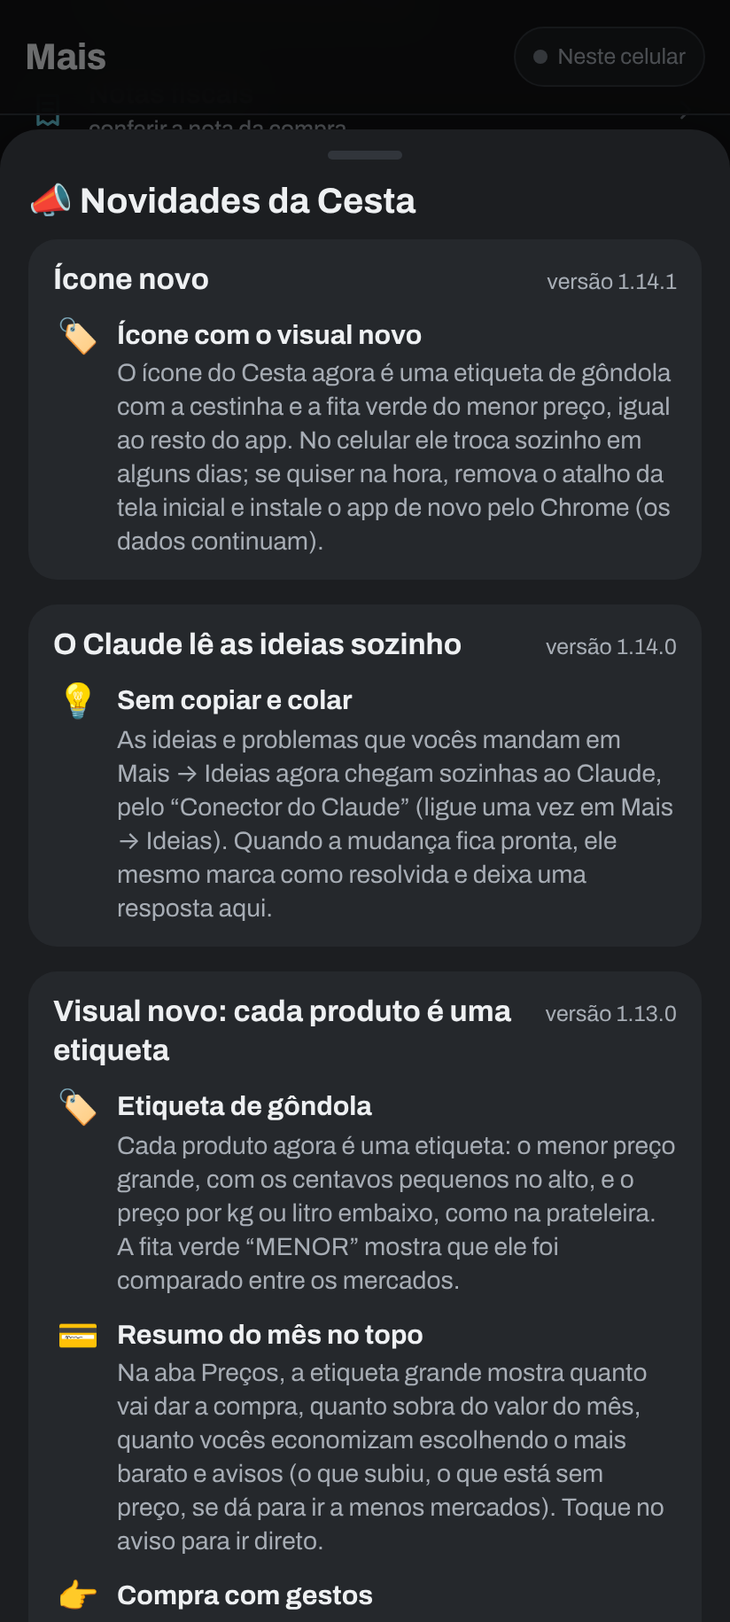
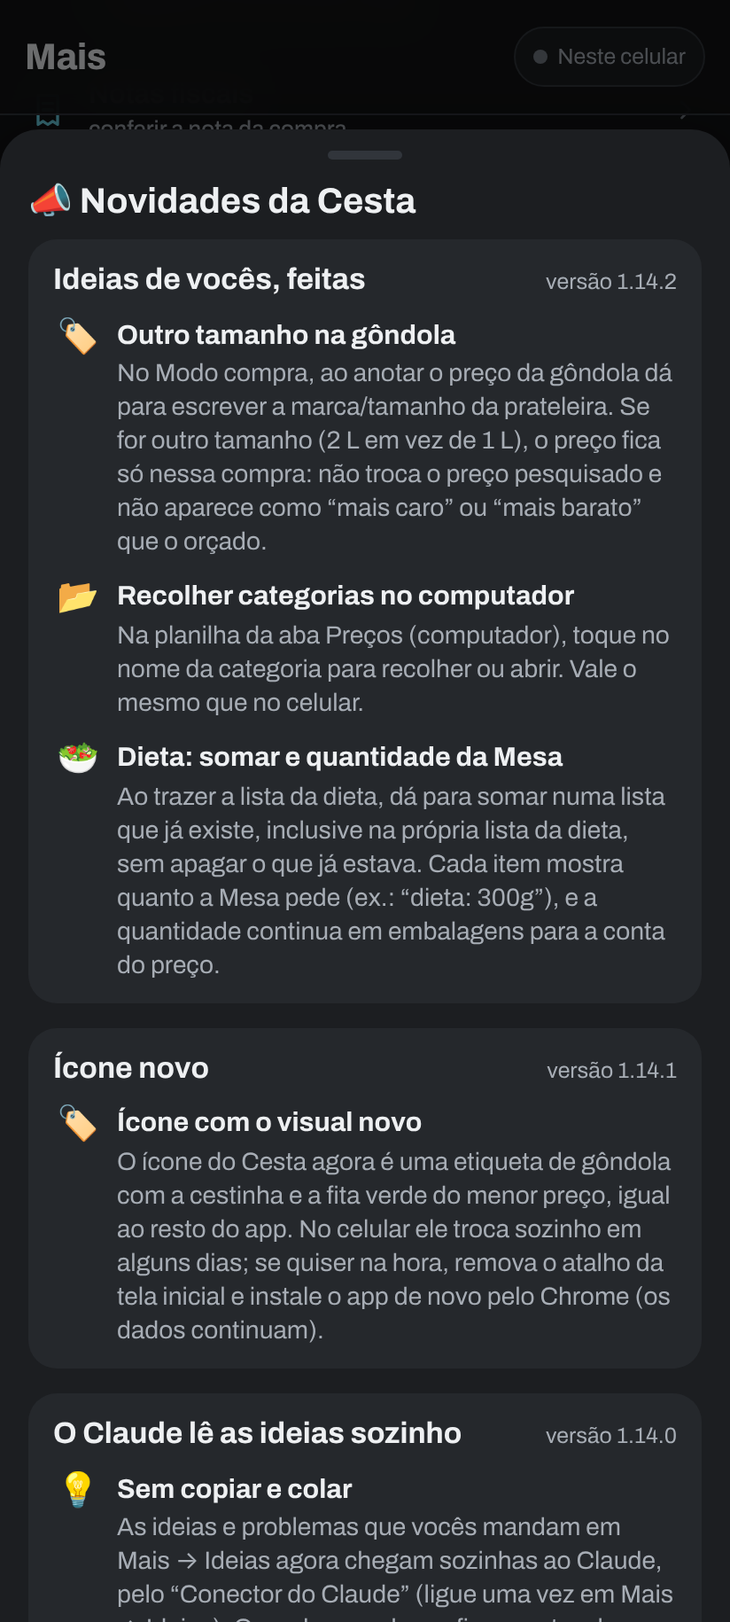
Vitrine na 1.14.2: feedbacks da família
Claude-Session: https://claude.ai/code/session_01LXQ9tCHVjJvAX95Gk39t66

Changed region(s): [[0.0607, 0.1557, 0.9405, 1.0], [0.7585, 0.1557, 0.8192, 0.1869], [0.091, 0.9656, 0.1214, 0.9967]]

diff --git a/app/js/modelo.js b/app/js/modelo.js
@@ -11,9 +11,11 @@
 //   p:<mes>:<pid>           produto      { nome, cat, qtd, obs }      (pid é o mesmo em todos os meses)
 //   r:<mes>:<pid>:<mid>     preço        { preco, marca, auto, obs }  (auto = marca copiada de outro mercado)
 //   k:<lista>:<pid>         modo compra  { ok, merc, faltou, pagoPreco, pagoQtd, estPreco, atualizou }
-//                           (ok = no carrinho, merc = mercado escolhido, pagoPreco/pagoQtd = preço e qtd vistos na gôndola)
+//                           (ok = no carrinho, merc = mercado escolhido, pagoPreco/pagoQtd = preço e qtd vistos na gôndola,
+//                            pagoMarca = marca/tamanho da gôndola, outroTam = tamanho diferente do pesquisado: preço não comparável)
 //   cm:<mes>                modo compra  { fora: [mid…] }             (mercados que não vou visitar)
-//   l:<lista>               lista        { nome, criado, orcamento, dieta }  (listas extras do mês e nome/limite da nº 1; dieta = { de, ate, quando })
+//   l:<lista>               lista        { nome, criado, orcamento, dieta, dietaQtd }  (listas extras do mês e nome/limite da nº 1; dieta = { de, ate, quando };
+//                                         dietaQtd = { pid: { qtd, unid } }: quanto a dieta pede, como na Mesa — a quantidade da lista é em embalagens)
 //   q:<lista>:<pid>         quantidade   { qtd }                      (só nas listas extras; a nº 1 usa p.qtd)
 //   oc:<lista>              orçado       { quando, total, itens: { pid: [preço, mid] } } (foto da lista na 1ª ação do Modo compra)
 //   mc:<pid>                marcas       { aceitas: [texto…] }        (vale para todos os meses; sem registro = qualquer marca)
@@ -500,7 +502,7 @@ export class Loja {
         faltou: todos.filter((m) => faltou.has(m.id)).map((m) => m.nome) };
       if (!mid) { semPreco.push(item); continue; }
       const l = c.linhas.find((x) => x.mid === mid);
-      item.mid = mid; item.marca = l.marca || c.marcaMenor;
+      item.mid = mid; item.marca = (temPago && k.pagoMarca) || l.marca || c.marcaMenor;
       item.preco = l.preco ?? k.pagoPreco ?? k.notaPreco;
       item.totalEst = item.preco * p.qtd;
       item.total = item.totalEst;
@@ -511,6 +513,8 @@ export class Loja {
       if (temPago) {
         item.pago = { preco: k.pagoPreco ?? item.preco, qtd: k.pagoQtd ?? p.qtd };
         item.total = item.pago.preco * item.pago.qtd;
+        // outro tamanho na gôndola: não dá para comparar com o orçado (o preço é de outra embalagem)
+        if (k.outroTam) { item.outroTam = true; item.totalEst = item.total; }
       }
       if (temNota) {
         item.nota = { preco: k.notaPreco, qtd: k.notaQtd ?? p.qtd };
@@ -1010,15 +1014,27 @@ export class Loja {
 
   // Preço e quantidade vistos na gôndola (pegar = já põe no carrinho). atualizarPesquisa grava o preço também na
   // pesquisa daquele mercado; o item fica preso nesse mercado para não "pular" de grupo.
-  pagarNoCaixa(mes, pid, { mid, preco = null, qtd = null, atualizarPesquisa = true, pegar = true }) {
+  // marca = marca/tamanho vista na gôndola (opcional). Com outro tamanho, o preço fica só na compra, a não ser que
+  // a pessoa peça para atualizar a pesquisa: aí vão o preço e a marca nova juntos.
+  pagarNoCaixa(mes, pid, { mid, preco = null, qtd = null, marca = null, atualizarPesquisa = true, pegar = true }) {
     return this.lote(() => {
       this.congelarOrcado(mes); // antes de mexer na pesquisa
       const k = this.get(`k:${mes}:${pid}`) || {};
       // guarda o preço pesquisado de antes, para mostrar a diferença mesmo depois de atualizar a pesquisa
       const antes = typeof k.estPreco === 'number' && k.merc === mid ? k.estPreco : this.preco(mes, pid, mid)?.preco ?? null;
-      this.set(`k:${mes}:${pid}`, { ...k, ok: pegar || !!k.ok, merc: mid, pagoPreco: preco, pagoQtd: qtd, estPreco: antes, atualizou: !!atualizarPesquisa });
+      const outroTam = this.outroTamanho(mes, pid, mid, marca);
+      this.set(`k:${mes}:${pid}`, { ...k, ok: pegar || !!k.ok, merc: mid, pagoPreco: preco, pagoQtd: qtd, pagoMarca: marca?.trim() || null, outroTam,
+        estPreco: antes, estMarca: k.atualizou && k.merc === mid && 'estMarca' in k ? k.estMarca : this.preco(mes, pid, mid)?.marca ?? '', atualizou: !!atualizarPesquisa });
       if (atualizarPesquisa && typeof preco === 'number') this.setPreco(mes, pid, mid, preco);
+      if (atualizarPesquisa && marca?.trim() && marca.trim() !== this.preco(mes, pid, mid)?.marca) this.setMarca(mes, pid, mid, marca.trim());
     });
+  }
+
+  // A marca/tamanho da gôndola tem outro tamanho que o pesquisado nesse mercado (ex.: 2 L em vez de 1 L)?
+  outroTamanho(mes, pid, mid, marca) {
+    const t = lerTamanho(marca || '');
+    const r = t && lerTamanho(this.preco(mes, pid, mid)?.marca || this.calcProduto(mes, pid).marcaMenor || '');
+    return !!r && (r.base !== t.base || r.qtd !== t.qtd);
   }
 
   // Não vou comprar este mês: zera a quantidade (o produto continua na lista de preços)
@@ -1033,7 +1049,8 @@ export class Loja {
     return this.lote(() => {
       const k = this.get(`k:${mes}:${pid}`) || {};
       if (k.atualizou && k.merc) this.setPreco(mes, pid, k.merc, typeof k.estPreco === 'number' ? k.estPreco : null);
-      this.set(`k:${mes}:${pid}`, { ...k, pagoPreco: null, pagoQtd: null, estPreco: null, atualizou: false });
+      if (k.atualizou && k.merc && k.pagoMarca && typeof k.estMarca === 'string' && k.estMarca !== k.pagoMarca) this._setR(mes, pid, k.merc, { marca: k.estMarca });
+      this.set(`k:${mes}:${pid}`, { ...k, pagoPreco: null, pagoQtd: null, pagoMarca: null, outroTam: false, estPreco: null, atualizou: false });
     });
   }
   setForaCompra(mes, mid, foraDaRota) {
@@ -1042,7 +1059,7 @@ export class Loja {
     this.set(`cm:${mes}`, { fora: [...fora] });
   }
   limparCompra(mes) {
-    return this.lote(() => { this.del(`oc:${mes}`); for (const [pid, k] of [...(this.ix.k.get(mes) || [])]) if (k.ok || k.faltou?.length || k.pagoPreco != null || k.pagoQtd != null) this.set(`k:${mes}:${pid}`, { ...k, ok: false, faltou: [], pagoPreco: null, pagoQtd: null, estPreco: null, atualizou: false }); });
+    return this.lote(() => { this.del(`oc:${mes}`); for (const [pid, k] of [...(this.ix.k.get(mes) || [])]) if (k.ok || k.faltou?.length || k.pagoPreco != null || k.pagoQtd != null) this.set(`k:${mes}:${pid}`, { ...k, ok: false, faltou: [], pagoPreco: null, pagoQtd: null, pagoMarca: null, outroTam: false, estPreco: null, atualizou: false }); });
   }
 
   // Gôndola cara: anota o preço visto (se quiser) e leva o item para outro mercado da rota
@@ -1051,7 +1068,7 @@ export class Loja {
       this.congelarOrcado(mes);
       if (atualizarPesquisa && typeof preco === 'number') this.setPreco(mes, pid, mid, preco);
       const k = this.get(`k:${mes}:${pid}`) || {};
-      this.set(`k:${mes}:${pid}`, { ...k, ok: false, merc: para, pagoPreco: null, pagoQtd: null, estPreco: null, atualizou: false });
+      this.set(`k:${mes}:${pid}`, { ...k, ok: false, merc: para, pagoPreco: null, pagoQtd: null, pagoMarca: null, outroTam: false, estPreco: null, atualizou: false });
     });
   }
 
@@ -1117,7 +1134,9 @@ export class Loja {
     return !t && base === 'un' ? c.menor : null;
   }
 
-  // Põe a dieta numa lista: itens = [{ pid, qtd, desc }]. Sem "para", cria (ou substitui) a lista "Dieta · Mês";
+  dietaQtd(lista, pid) { return this.ix.l.get(lista)?.dietaQtd?.[pid] || null; }
+
+  // Põe a dieta numa lista: itens = [{ pid, qtd, desc, dieta: { qtd, unid } }]. Sem "para", cria (ou substitui) a lista "Dieta · Mês";
   // com "para", soma as quantidades numa lista que já existe. Aprende os nomes ligados (como na nota fiscal).
   aplicarDieta(mes, itens, { de, ate, para = null } = {}) {
     mes = mesDe(mes);
@@ -1129,12 +1148,20 @@ export class Loja {
         for (const p of this.produtos(id)) if (p.qtd) this.setQtd(id, p.id, null);
       }
       const soma = new Map();
+      // quanto a dieta pede (g, ml, un), somado com o que já havia quando "para" soma numa lista
+      const dq = para ? { ...(this.ix.l.get(id)?.dietaQtd || {}) } : {};
       for (const i of itens) {
         if (!i.pid || !this.produto(id, i.pid)) continue;
         soma.set(i.pid, (soma.get(i.pid) || 0) + i.qtd);
+        if (i.dieta?.qtd != null) {
+          const a = dq[i.pid];
+          // shortcut: unidade diferente da que já estava substitui em vez de somar, raro (a Mesa usa uma unidade por alimento)
+          dq[i.pid] = { qtd: Math.round(((a?.unid === i.dieta.unid ? a.qtd : 0) + i.dieta.qtd) * 1000) / 1000, unid: i.dieta.unid };
+        }
         const kd = chaveDesc(i.desc || '');
         if (kd && this.ix.vd.get(kd)?.pid !== i.pid) this.set(`vd:${kd}`, { pid: i.pid, desc: i.desc });
       }
+      this.mesclar(`l:${id}`, { dietaQtd: dq });
       for (const [pid, q] of soma) this.setQtd(id, pid, Math.round(((para ? this.produto(id, pid).qtd || 0 : 0) + q) * 1000) / 1000);
     });
     return { id, desfazer };

diff --git a/app/js/compra.js b/app/js/compra.js
@@ -208,7 +208,7 @@ function itemCompra(it) {
   const detalhe = [h('span', { class: 'q' }, `${fmtQ(real?.qtd ?? it.p.qtd)}×`), it.marca ? ` · ${it.marca}` : '', it.preco != null ? ` · ${fmtRS(real?.preco ?? it.preco)} un.` : ''];
   const dif = real && !it.semEst ? Math.round((it.total - it.totalEst) * 100) / 100 : 0;
   const refUnit = real && !it.semEst ? it.totalEst / it.p.qtd : null;
-  const txtOrcado = refUnit === null ? '' : ` · orçado ${fmtRS(refUnit)}${dif ? ` (${dif > 0 ? '+' : '−'}${fmtRS(Math.abs(dif))})` : ' (igual)'}`;
+  const txtOrcado = it.outroTam ? ' · outro tamanho' : refUnit === null ? '' : ` · orçado ${fmtRS(refUnit)}${dif ? ` (${dif > 0 ? '+' : '−'}${fmtRS(Math.abs(dif))})` : ' (igual)'}`;
   const frente = h('div', { class: `ic-compra${it.ok ? ' ok' : ''}` },
     h('button', { class: 'marca-cx', role: 'checkbox', 'aria-checked': String(it.ok), 'aria-label': it.p.nome, onclick: alternar }, icone('check')),
     h('button', { class: 'tx', onclick: alternar },
@@ -285,7 +285,10 @@ function gondola(it) {
   const inpPreco = h('input', { class: 'entrada num', inputmode: 'decimal', value: fmtN(it.pago?.preco ?? it.preco), placeholder: 'R$ por unidade', autofocus: true, enterkeyhint: 'done',
     style: { fontSize: '1.25rem', fontWeight: 700 } });
   campoMoeda(inpPreco, () => app.prefs.moeda !== false);
-  const chk = h('input', { type: 'checkbox', checked: true });
+  // outro tamanho na prateleira (ex.: 2 L em vez de 1 L): o preço não é comparável e não vai para a pesquisa sozinho
+  const inpMarca = h('input', { class: 'entrada', value: it.marca || '', placeholder: 'Ex.: Italac 1L', autocapitalize: 'sentences' });
+  let eraOutro = it.outroTam || false;
+  const chk = h('input', { type: 'checkbox', checked: !eraOutro });
   const nomeMerc = () => (it.mid ? rota.find((m) => m.id === it.mid)?.nome : rota.find((m) => m.id === selMerc.value)?.nome) || '';
   const rotChk = h('span');
   const conta = h('div', { class: 'aviso', style: { background: 'var(--card2)', borderColor: 'var(--linha)', color: 'var(--texto)' } });
@@ -294,13 +297,19 @@ function gondola(it) {
     const q = lerNumero(inpQtd.value), p = lerExpr(inpPreco.value);
     rotChk.textContent = `Atualizar também o preço do ${nomeMerc()} na pesquisa`;
     alerta.hidden = true;
+    const mid = it.mid || selMerc?.value;
+    const outro = !!mid && loja.outroTamanho(mes, it.p.id, mid, inpMarca.value);
+    if (outro !== eraOutro) { chk.checked = !outro; eraOutro = outro; }
     if (!q || typeof p !== 'number') { conta.textContent = 'Digite a quantidade e o preço por unidade.'; return; }
     const total = q * p;
+    if (outro) {
+      conta.replaceChildren(h('b', { class: 'num' }, `Total: ${fmtRS(total)}`), h('span', { style: { color: 'var(--suave)' } }, ' · outro tamanho: não entra na comparação com o orçado nem na pesquisa (a não ser que você marque abaixo).'));
+      return;
+    }
     const est = it.pago?.qtd !== undefined && it.semEst ? null : it.totalEst ?? null;
     conta.replaceChildren(h('b', { class: 'num' }, `Total: ${fmtRS(total)}`),
       est != null ? h('span', { class: 'num', style: { color: 'var(--suave)' } }, ` · orçado ${fmtRS(est)}${Math.abs(total - est) > 0.004 ? ` (${total > est ? '+' : '−'}${fmtRS(Math.abs(total - est))})` : ''}`) : null);
     // subiu 10% ou mais e outro mercado da rota tem mais barato: avisa ali mesmo
-    const mid = it.mid || selMerc?.value;
     const a = mid ? loja.alertaGondola(mes, it.p.id, mid, p) : null;
     if (a) {
       alerta.replaceChildren(h('span', null, `⚠ Subiu ${a.pct}% (orçado ${fmtRS(a.ref)}). No ${a.alt.nome} está ${fmtRS(a.alt.preco)}${a.alt.marca ? ` (${a.alt.marca})` : ''}.`),
@@ -316,13 +325,14 @@ function gondola(it) {
     toast(`${it.p.nome} vai ser comprado no ${alt.nome}.`, { acao: { rotulo: 'Desfazer', fn: () => { desfazer(); app.render(); } } });
   };
   [inpQtd, inpPreco].forEach((x) => { x.addEventListener('input', pintar); x.addEventListener('focus', () => x.select()); });
+  inpMarca.addEventListener('input', pintar);
   selMerc?.addEventListener('change', pintar);
   const salvar = (pegar = true) => {
     const q = lerNumero(inpQtd.value), p = lerExpr(inpPreco.value);
     if (!q || typeof p !== 'number') { erro.textContent = 'Confira a quantidade e o preço.'; erro.hidden = false; return; }
     const mid = it.mid || selMerc?.value;
     if (!mid) { erro.textContent = 'Nenhum mercado na rota.'; erro.hidden = false; return; }
-    const desfazer = loja.pagarNoCaixa(mes, it.p.id, { mid, preco: p, qtd: q, atualizarPesquisa: chk.checked, pegar });
+    const desfazer = loja.pagarNoCaixa(mes, it.p.id, { mid, preco: p, qtd: q, marca: inpMarca.value, atualizarPesquisa: chk.checked, pegar });
     f.fechar();
     app.render();
     toast(`🏷 ${it.p.nome}: ${fmtRS(q * p)}${pegar || it.ok ? ' no carrinho' : ' anotado'}.`, { acao: { rotulo: 'Desfazer', fn: () => { desfazer(); app.render(); } } });
@@ -334,6 +344,7 @@ function gondola(it) {
     h('div', { class: 'form' },
       selMerc ? h('label', null, 'Mercado', selMerc) : null,
       h('div', { class: 'grade2' }, h('label', null, 'Quantidade', inpQtd), h('label', null, 'Preço por unidade', inpPreco)),
+      h('label', null, 'Marca/tamanho na prateleira', inpMarca),
       conta,
       alerta,
       h('label', { class: 'check' }, chk, rotChk),

diff --git a/app/js/dieta.js b/app/js/dieta.js
@@ -9,7 +9,7 @@ import { norm, nomeMes, mesDe } from './modelo.js';
 
 const iso = (d) => `${d.getFullYear()}-${String(d.getMonth() + 1).padStart(2, '0')}-${String(d.getDate()).padStart(2, '0')}`;
 const ddmm = (s) => `${s.slice(8, 10)}/${s.slice(5, 7)}`;
-const fmtDieta = (q, u) => (q == null ? 'sem quantidade' : u === 'g' && q >= 1000 ? `${fmtQ(q / 1000)} kg` : u === 'ml' && q >= 1000 ? `${fmtQ(q / 1000)} L` : `${fmtQ(q)}${u === 'un' ? ' un' : u}`);
+export const fmtDieta = (q, u) => (q == null ? 'sem quantidade' : u === 'g' && q >= 1000 ? `${fmtQ(q / 1000)} kg` : u === 'ml' && q >= 1000 ? `${fmtQ(q / 1000)} L` : `${fmtQ(q)}${u === 'un' ? ' un' : u}`);
 
 // Seções da dieta → categorias do mercado (pelo nome; quem renomeou "Açougue" etc. também acerta)
 const SECOES = { 'Açougue': ['acougue', 'carne'], 'Peixaria': ['peix', 'carne'], 'Hortifruti': ['hortifruti', 'fruta', 'verdura'],
@@ -70,7 +70,7 @@ export function trazerDieta(mes = mesDe(app.mes)) {
   const existe = loja.listaDaDieta(mes);
   const f = folha([
     h('h2', null, '🥗 Trazer a lista da dieta'),
-    h('p', { class: 'sub' }, `Busca no app Plano da Família tudo o que a dieta usa no período, já somado. ${existe ? `Substitui as quantidades de “${loja.nomeLista(existe)}”.` : `Vira uma lista separada, “Dieta · ${nomeMes(mes).split(' ')[0]}”.`}`),
+    h('p', { class: 'sub' }, `Busca no app Plano da Família tudo o que a dieta usa no período, já somado. Depois você escolhe para onde vai: ${existe ? `substituir “${loja.nomeLista(existe)}”` : `uma lista separada, “Dieta · ${nomeMes(mes).split(' ')[0]}”`}, ou somar numa lista que já existe.`),
     chips, erro,
     h('div', { class: 'acoes lado' }, h('button', { class: 'btn fantasma', onclick: () => f.fechar() }, 'Cancelar'), btn),
   ]);
@@ -89,7 +89,7 @@ function revisar(mes, r) {
   const dieta = loja.listaDaDieta(mes);
   const selDestino = h('select', { class: 'entrada' },
     h('option', { value: '' }, dieta ? `${loja.nomeLista(dieta)} (substituir)` : `Lista separada: Dieta · ${nomeMes(mes).split(' ')[0]}`),
-    listas.filter((id) => id !== dieta).map((id) => h('option', { value: id }, `Somar em ${loja.nomeLista(id)}`)));
+    listas.map((id) => h('option', { value: id }, `Somar em ${loja.nomeLista(id)}${id === dieta ? ' (manter o que já tem)' : ''}`)));
   const corpo = h('div', { class: 'lista-ed' });
   const resumo = h('p', { class: 'sub' });
   const qtdDe = (i) => loja.embalagens(mes, i.pid, i.qtd, i.unid);
@@ -142,7 +142,7 @@ function revisar(mes, r) {
         i.pid = loja.duplicados(mes, nome)[0]?.id || loja.addProduto(mes, { nome, cat: categoriaPara(i.categoria, nome) });
         novos++;
       }
-      const usados = itens.filter((i) => i.como !== 'nao' && i.pid).map((i) => ({ pid: i.pid, qtd: qtdDe(i).qtd, desc: i.nome }));
+      const usados = itens.filter((i) => i.como !== 'nao' && i.pid).map((i) => ({ pid: i.pid, qtd: qtdDe(i).qtd, desc: i.nome, dieta: { qtd: i.qtd, unid: i.unid } }));
       destino = loja.aplicarDieta(mes, usados, { de: r.de, ate: r.ate, para }).id;
     });
     // preços para o app da dieta calcular quanto custa a semana (sem preço anotado, o item só fica de fora da conta)

diff --git a/app/js/grade.js b/app/js/grade.js
@@ -2,13 +2,15 @@
 // Enter desce para a mesma coluna do próximo produto; Tab anda para a direita.
 
 import { app } from './ctx.js';
-import { h, fmtRS, fmtN, fmtQ, lerExpr, campoMoeda, toast } from './ui.js';
+import { h, fmtRS, fmtN, fmtQ, lerExpr, campoMoeda, toast, icone } from './ui.js';
 import { lerNumero } from './modelo.js';
+import { fmtDieta } from './dieta.js';
 
 export const telaLarga = () => matchMedia('(min-width: 900px)').matches;
 
 // grupos: [{ c: categoria, lista: produtos }]
-export function montarGrade(grupos, { aoMudar, editar }) {
+// recolher uma categoria usa a mesma preferência da vista de cartões (prefs.recolhidas); buscando, abre tudo
+export function montarGrade(grupos, { aoMudar, editar, abrirTudo = false }) {
   const mercs = app.loja.mercados();
   const cab = h('thead', null,
     h('tr', null, h('th', { rowspan: 2, class: 'g-prod' }, 'Produto'), h('th', { rowspan: 2 }, 'Qtd.'),
@@ -16,9 +18,18 @@ export function montarGrade(grupos, { aoMudar, editar }) {
       h('th', { rowspan: 2 }, 'Menor preço'), h('th', { rowspan: 2 }, 'Mais barato'), h('th', { rowspan: 2 }, 'Total')),
     h('tr', null, mercs.map(() => [h('th', { class: 'g-sub' }, 'Preço'), h('th', { class: 'g-sub' }, 'Marca/tam.')])));
   const corpo = h('tbody');
+  const recolhidas = new Set(app.prefs.recolhidas || []);
   for (const { c, lista } of grupos) {
-    corpo.append(h('tr', { class: 'g-cat' }, h('td', { colspan: 5 + mercs.length * 2 }, `▸ ${c.nome}`)));
-    for (const p of lista) corpo.append(linha(p, mercs, aoMudar, editar));
+    const fechada = recolhidas.has(c.id) && !abrirTudo;
+    const alternar = () => {
+      const s = new Set(app.prefs.recolhidas || []);
+      if (s.has(c.id)) s.delete(c.id); else s.add(c.id);
+      app.prefs.recolhidas = [...s]; app.salvarPrefs(); app.render();
+    };
+    corpo.append(h('tr', { class: 'g-cat' }, h('td', { colspan: 5 + mercs.length * 2 },
+      h('button', { class: 'g-cat-bt', 'aria-expanded': String(!fechada), onclick: alternar },
+        icone(fechada ? 'chevR' : 'chevD'), c.nome, fechada ? h('small', null, ` · ${lista.length} ${lista.length === 1 ? 'produto' : 'produtos'}`) : null))));
+    if (!fechada) for (const p of lista) corpo.append(linha(p, mercs, aoMudar, editar));
   }
   return h('div', { class: 'grade-env' }, h('table', { class: 'grade' }, cab, corpo));
 }
@@ -42,7 +53,8 @@ function linha(p, mercs, aoMudar, editar) {
   });
   tr._qtd = qtd;
   tr._cel = new Map();
-  const tds = [h('td', { class: 'g-prod' }, h('button', { class: 'g-nome', title: 'Editar produto', onclick: () => editar(p.id) }, p.nome)), h('td', null, qtd)];
+  const dq = loja.dietaQtd(mes, p.id);
+  const tds = [h('td', { class: 'g-prod' }, h('button', { class: 'g-nome', title: 'Editar produto', onclick: () => editar(p.id) }, p.nome, dq ? h('small', { class: 'g-dieta' }, ` dieta: ${fmtDieta(dq.qtd, dq.unid)}`) : null)), h('td', null, qtd)];
   for (const m of mercs) {
     const preco = h('input', {
       class: 'g-in g-preco num', inputmode: 'decimal', dataset: { col: `p:${m.id}` }, 'aria-label': `Preço de ${p.nome} no ${m.nome}`,

diff --git a/app/js/lista.js b/app/js/lista.js
@@ -5,6 +5,7 @@ import { h, fmtRS, fmtN, fmtQ, lerExpr, folha, perguntar, toast, vibrar, campoMo
 import { norm, lerNumero, nomeMes, porUnidade, variacaoPreco, mesDe, nomeDaMarca } from './modelo.js';
 import { marcasComuns } from './marcas.js';
 import { montarGrade, pintarLinha, telaLarga } from './grade.js';
+import { fmtDieta } from './dieta.js';
 
 const filtros = { busca: '', falta: false, cat: null, merc: null, comprar: false };
 const abertos = new Set();
@@ -125,7 +126,7 @@ export function pintarLista() {
     pintarBanda(sec);
     frag.push(sec);
   }
-  if (grade?.length) frag.push(montarGrade(grade, { aoMudar: () => { pintarProgresso(); app.pintarRodape(); }, editar: (pid) => editarProduto(pid) }));
+  if (grade?.length) frag.push(montarGrade(grade, { aoMudar: () => { pintarProgresso(); app.pintarRodape(); }, editar: (pid) => editarProduto(pid), abrirTudo: !!filtros.busca }));
   if (!mostrados) {
     const termo = filtros.busca.trim();
     frag.push(h('div', { class: 'vazio-lista' },
@@ -381,7 +382,8 @@ function pintar(card) {
   card._qtd.parentElement.classList.toggle('vazia', !p.qtd);
   const marcaPrinc = c.marcaMenor || c.linhas.find((l) => l.marca)?.marca || '';
   const aceitas = loja.marcasAceitas(pid);
-  card._sub.textContent = [marcaPrinc, aceitas.length ? `só ${aceitas.join(', ')}` : '', p.obs].filter(Boolean).join(' · ');
+  const dq = loja.dietaQtd(mes, pid);
+  card._sub.textContent = [marcaPrinc, aceitas.length ? `só ${aceitas.join(', ')}` : '', dq ? `dieta: ${fmtDieta(dq.qtd, dq.unid)}` : '', p.obs].filter(Boolean).join(' · ');
   card._sub.hidden = !card._sub.textContent;
   const lMenor = c.linhas.find((l) => l.mid === c.mercMenor);
   card._unid.textContent = lMenor?.porUnid != null ? `${fmtRS(lMenor.porUnid)}/${lMenor.tam.base}` : '';

diff --git a/app/js/novidades.js b/app/js/novidades.js
@@ -6,6 +6,14 @@ import { h, folha } from './ui.js';
 
 export const NOVIDADES = [
   {
+    versao: '1.14.2', titulo: 'Ideias de vocês, feitas',
+    itens: [
+      ['🏷', 'Outro tamanho na gôndola', 'No Modo compra, ao anotar o preço da gôndola dá para escrever a marca/tamanho da prateleira. Se for outro tamanho (2 L em vez de 1 L), o preço fica só nessa compra: não troca o preço pesquisado e não aparece como “mais caro” ou “mais barato” que o orçado.'],
+      ['📂', 'Recolher categorias no computador', 'Na planilha da aba Preços (computador), toque no nome da categoria para recolher ou abrir. Vale o mesmo que no celular.'],
+      ['🥗', 'Dieta: somar e quantidade da Mesa', 'Ao trazer a lista da dieta, dá para somar numa lista que já existe, inclusive na própria lista da dieta, sem apagar o que já estava. Cada item mostra quanto a Mesa pede (ex.: “dieta: 300g”), e a quantidade continua em embalagens para a conta do preço.'],
+    ],
+  },
+  {
     versao: '1.14.1', titulo: 'Ícone novo',
     itens: [
       ['🏷', 'Ícone com o visual novo', 'O ícone do Cesta agora é uma etiqueta de gôndola com a cestinha e a fita verde do menor preço, igual ao resto do app. No celular ele troca sozinho em alguns dias; se quiser na hora, remova o atalho da tela inicial e instale o app de novo pelo Chrome (os dados continuam).'],

diff --git a/app/app.css b/app/app.css
@@ -510,7 +510,11 @@ body.largo #app, body.largo .rodape-in { max-width: min(1680px, 100%); }
 .grade .g-merc { color: var(--texto); border-left: 1px solid var(--linha); }
 .grade .g-prod { position: sticky; left: 0; z-index: 1; background: var(--card); text-align: left; min-width: 190px; border-right: 1px solid var(--linha); }
 .grade thead .g-prod { z-index: 3; background: var(--card2); }
-.grade .g-cat td { background: var(--petroleo-bg); color: var(--petroleo); font-weight: 750; padding: 6px 10px; }
+.grade .g-cat td { background: var(--petroleo-bg); color: var(--petroleo); font-weight: 750; padding: 0; }
+.grade .g-cat-bt { display: flex; align-items: center; gap: 6px; width: 100%; padding: 6px 10px; border: 0; background: none; color: inherit; font: inherit; text-align: left; cursor: pointer; }
+.grade .g-cat-bt svg { width: 16px; height: 16px; }
+.grade .g-dieta { color: var(--suave); font-weight: 500; }
+.grade .g-cat-bt small { color: var(--suave); font-weight: 500; }
 .grade .g-p { border-left: 1px solid var(--linha); }
 .g-nome { background: none; border: 0; color: var(--texto); font: inherit; font-weight: 650; text-align: left; padding: 4px 2px; cursor: pointer; }
 .g-nome:hover { color: var(--petroleo); text-decoration: underline; }

diff --git a/app/js/app.js b/app/js/app.js
@@ -18,7 +18,7 @@ import { abrirOtimizar } from './assistente.js';
 import { DEMO, prepararDemo, seloDemo } from './demo.js';
 import { cartoes as cartoesOrcamento, barra as barraOrcamento, frase as fraseOrcamento, abrirValor } from './orcamento.js';
 
-app.versao = '1.14.1';
+app.versao = '1.14.2';
 
 // ---------- preferências deste celular ----------
 function lerPrefs() { try { return JSON.parse(localStorage.getItem('cesta.prefs')) || {}; } catch { return {}; } }

diff --git a/app/sw.js b/app/sw.js
@@ -1,6 +1,6 @@
 // Service worker: guarda o app no celular para abrir sem internet.
 // Ao mudar qualquer arquivo do app, suba a versão em CACHE (e VERSAO em js/app.js).
-const CACHE = 'cesta-v18';
+const CACHE = 'cesta-v19';
 const ARQUIVOS = [
   './', 'app.css', 'manifest.webmanifest',
   'js/app.js', 'js/ctx.js', 'js/modelo.js', 'js/banco.js', 'js/sinc.js', 'js/ui.js', 'js/lista.js',

diff --git a/README.md b/README.md
@@ -20,10 +20,10 @@ where each item is cheapest and the best route of stores to visit, turns into a 
 electronic receipt afterwards to check what was really charged.**
 
 It was built for the person who does the family's shopping and has been used every month since October 2026, replacing a
-spreadsheet with one tab per month. Seventeen releases later it also prices the family's diet for the nutrition app (Mesa) and hands the family's feedback
+spreadsheet with one tab per month. Eighteen releases later it also prices the family's diet for the nutrition app (Mesa) and hands the family's feedback
 straight to Claude through its own connector.
 
-**At a glance:** 17 releases · used monthly since Oct 2026 · 5 stores × 147 products · 0 dependencies · works fully offline
+**At a glance:** 18 releases · used monthly since Oct 2026 · 5 stores × 147 products · 0 dependencies · works fully offline
 
 > The live demo opens with the ready-made list of 147 products and three months of **fictitious prices** in five stores,
 > generated in your browser. It works offline; nothing leaves your browser.
@@ -93,7 +93,7 @@ Details in [SECURITY.md](SECURITY.md).
 - **Receipt reader** tested against a real (anonymised) NFC-e, including codes, quantities, discounts and store mapping.
 - **Learning without AI** — product/receipt linking and category suggestions learn from what the family does, with rules
   that never guess when there's a tie.
-- **46 model and connector tests** plus a Playwright end-to-end run of the whole app: two phones, offline mode, receipts, the spreadsheet,
+- **47 model and connector tests** plus a Playwright end-to-end run of the whole app: two phones, offline mode, receipts, the spreadsheet,
   and the integration with the nutrition app with both Workers running locally.
 
 ## Tech stack

diff --git a/README.pt-BR.md b/README.pt-BR.md
@@ -20,10 +20,10 @@ cada item sai mais barato e a melhor rota de mercados, vira lista de compra na h
 para conferir o que foi cobrado de verdade.**
 
 Foi feita para quem faz as compras da família e é usada todo mês desde outubro de 2026, no lugar de uma planilha com uma
-aba por mês. Dezessete versões depois, ela também dá preço à dieta da família para o app de alimentação (Mesa) e entrega as ideias da
+aba por mês. Dezoito versões depois, ela também dá preço à dieta da família para o app de alimentação (Mesa) e entrega as ideias da
 família direto ao Claude, por um conector próprio.
 
-**Em números:** 17 versões · uso mensal desde out/2026 · 5 mercados × 147 produtos · 0 dependências · funciona 100% offline
+**Em números:** 18 versões · uso mensal desde out/2026 · 5 mercados × 147 produtos · 0 dependências · funciona 100% offline
 
 > A demonstração ao vivo abre com a lista pronta de 147 produtos e três meses de **preços fictícios** em cinco mercados,
 > gerados no seu navegador. Funciona offline; nada sai do seu navegador.
@@ -93,7 +93,7 @@ Detalhes em [SECURITY.md](SECURITY.md).
 - **Leitor de nota** testado contra uma NFC-e real (anonimizada), com códigos, quantidades, descontos e o mercado da loja.
 - **Aprende sem IA** — o vínculo produto/nota e a sugestão de categoria aprendem com o que a família faz, com regras que
   nunca chutam quando há empate.
-- **46 testes do modelo e do conector** e um ponta a ponta com Playwright do app inteiro: dois celulares, offline, notas, planilha e a
+- **47 testes do modelo e do conector** e um ponta a ponta com Playwright do app inteiro: dois celulares, offline, notas, planilha e a
   integração com o app de alimentação com os dois Workers rodando localmente.
 
 ## Tecnologias

diff --git a/docs/case-study.pt-BR.md b/docs/case-study.pt-BR.md
@@ -2,7 +2,7 @@
 
 *[Read in English](case-study.md)*
 
-**Papel:** produto, UX e engenharia, de ponta a ponta · **Período:** out/2026 – hoje, 17 versões · **Usuários:** quem faz as
+**Papel:** produto, UX e engenharia, de ponta a ponta · **Período:** out/2026 – hoje, 18 versões · **Usuários:** quem faz as
 compras da família, todo mês (dois celulares sincronizados)
 
 ## O problema
